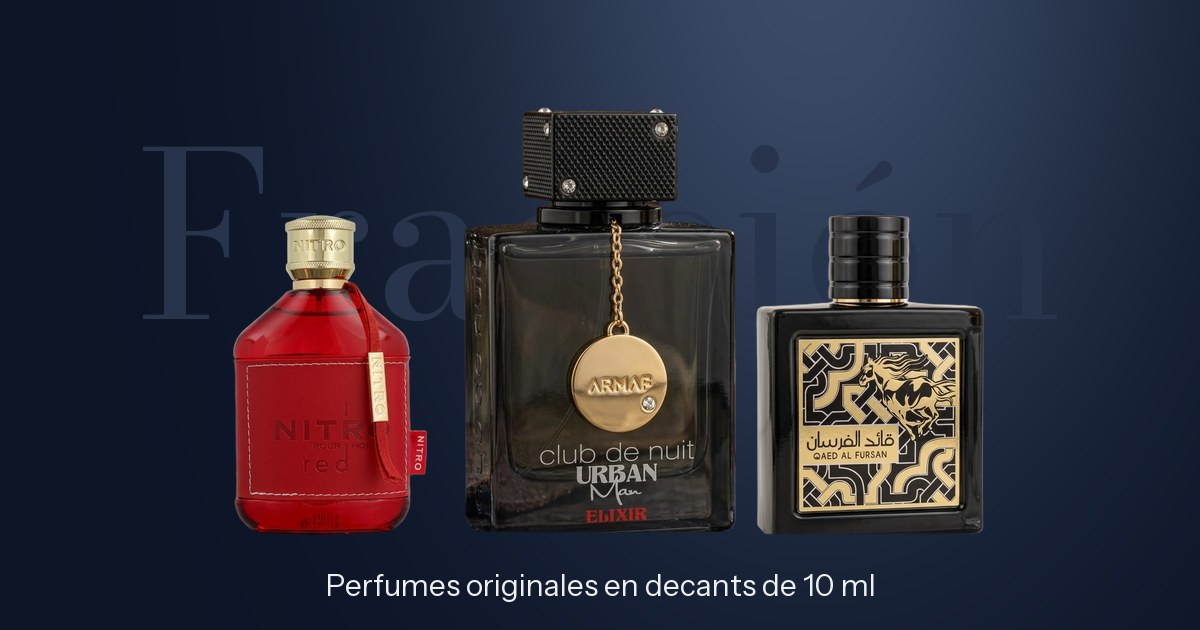
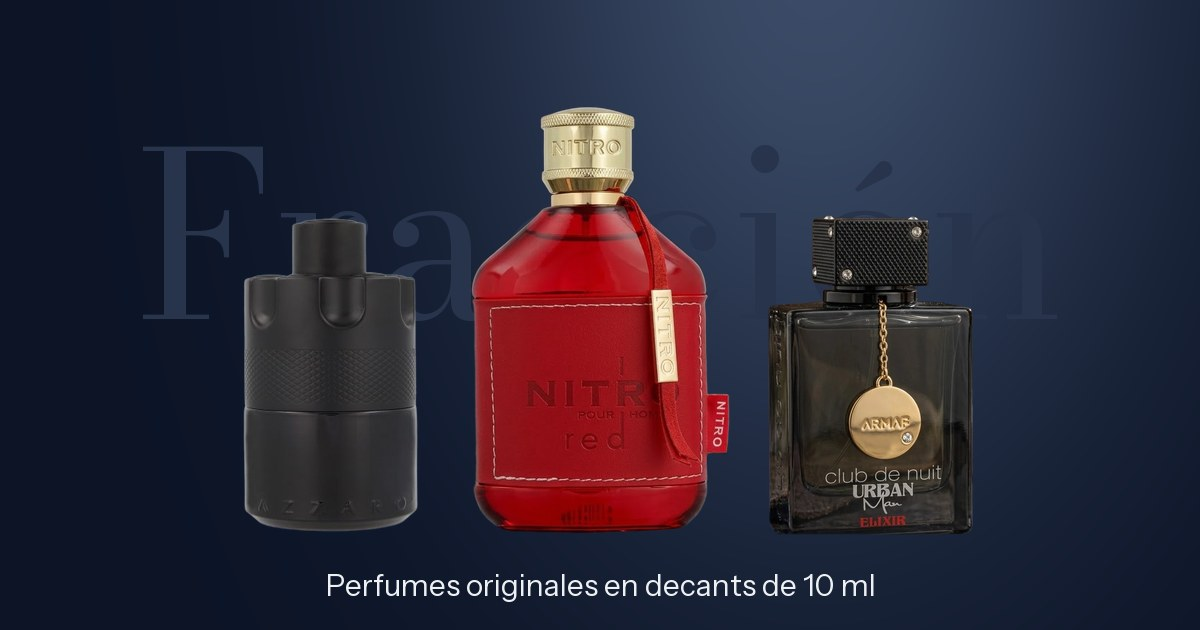
Se restaura The Most Wanted Intense de Azzaro

Changed region(s): [[0.185, 0.1508, 0.8325, 0.8746]]

diff --git a/data/products.ts b/data/products.ts
@@ -19,6 +19,42 @@ import type { CatalogEntry, Product } from "@/types/product";
  */
 const entries: CatalogEntry[] = [
   {
+    slug: "azzaro-the-most-wanted-edp-intense",
+    name: "The Most Wanted Intense",
+    brand: "Azzaro",
+    // ─── Lo que puedes cambiar ───
+    price: 450,
+    available: true,
+    featured: true,
+    // ─────────────────────────────
+    concentration: "EDP",
+    family: "oriental",
+    gender: "masculino",
+    tagline: "Cardamomo, un acorde de caramelo y madera ambarada.",
+    description:
+      "Azzaro lo define como un fougère amaderado ambarado, intenso y magnético. El cardamomo abre con energía junto a la mandarina, el corazón es un acorde adictivo de caramelo con lavanda y salvia esclarea, y el fondo combina madera ambarada, vainilla bourbon y vetiver.",
+    highlightNotes: ["Cardamomo", "Caramelo", "Madera ambarada"],
+    perfumer: "Michel Girard, Nadège Le Garlantezec y Shyamala Maisondieu",
+    year: 2021,
+    sources: [
+      { label: "Azzaro: The Most Wanted Eau de Parfum Intense", url: "https://www.azzaro.com/en/fragrances/azzaro-the-most-wanted/eau-de-parfum-intense" },
+      { label: "Ulta Beauty: The Most Wanted Eau de Parfum Intense", url: "https://www.ulta.com/p/most-wanted-eau-de-parfum-intense-pimprod2023922?sku=2579633" },
+      { label: "Parfumo: The Most Wanted Eau de Parfum Intense", url: "https://www.parfumo.com/Perfumes/Azzaro/the-most-wanted-eau-de-parfum-intense" },
+    ],
+    notes: {
+      top: ["Cardamomo", "Mandarina"],
+      heart: ["Caramelo tostado", "Lavanda", "Salvia esclarea"],
+      base: ["Madera ambarada", "Vainilla bourbon", "Vetiver"],
+    },
+    images: {
+      bottle: "/products/azzaro-the-most-wanted-edp-intense/bottle.webp",
+      decant: "/products/azzaro-the-most-wanted-edp-intense/decant.webp",
+      scene: "/products/azzaro-the-most-wanted-edp-intense/scene.webp",
+    },
+    atmosphere: { base: "#1c0f0b", glow: "#e0874a" },
+    profile: { moment: "noche", character: ["calido", "especiado"] },
+  },
+  {
     slug: "dumont-nitro-red-edp",
     name: "Nitro Red",
     brand: "Dumont",
